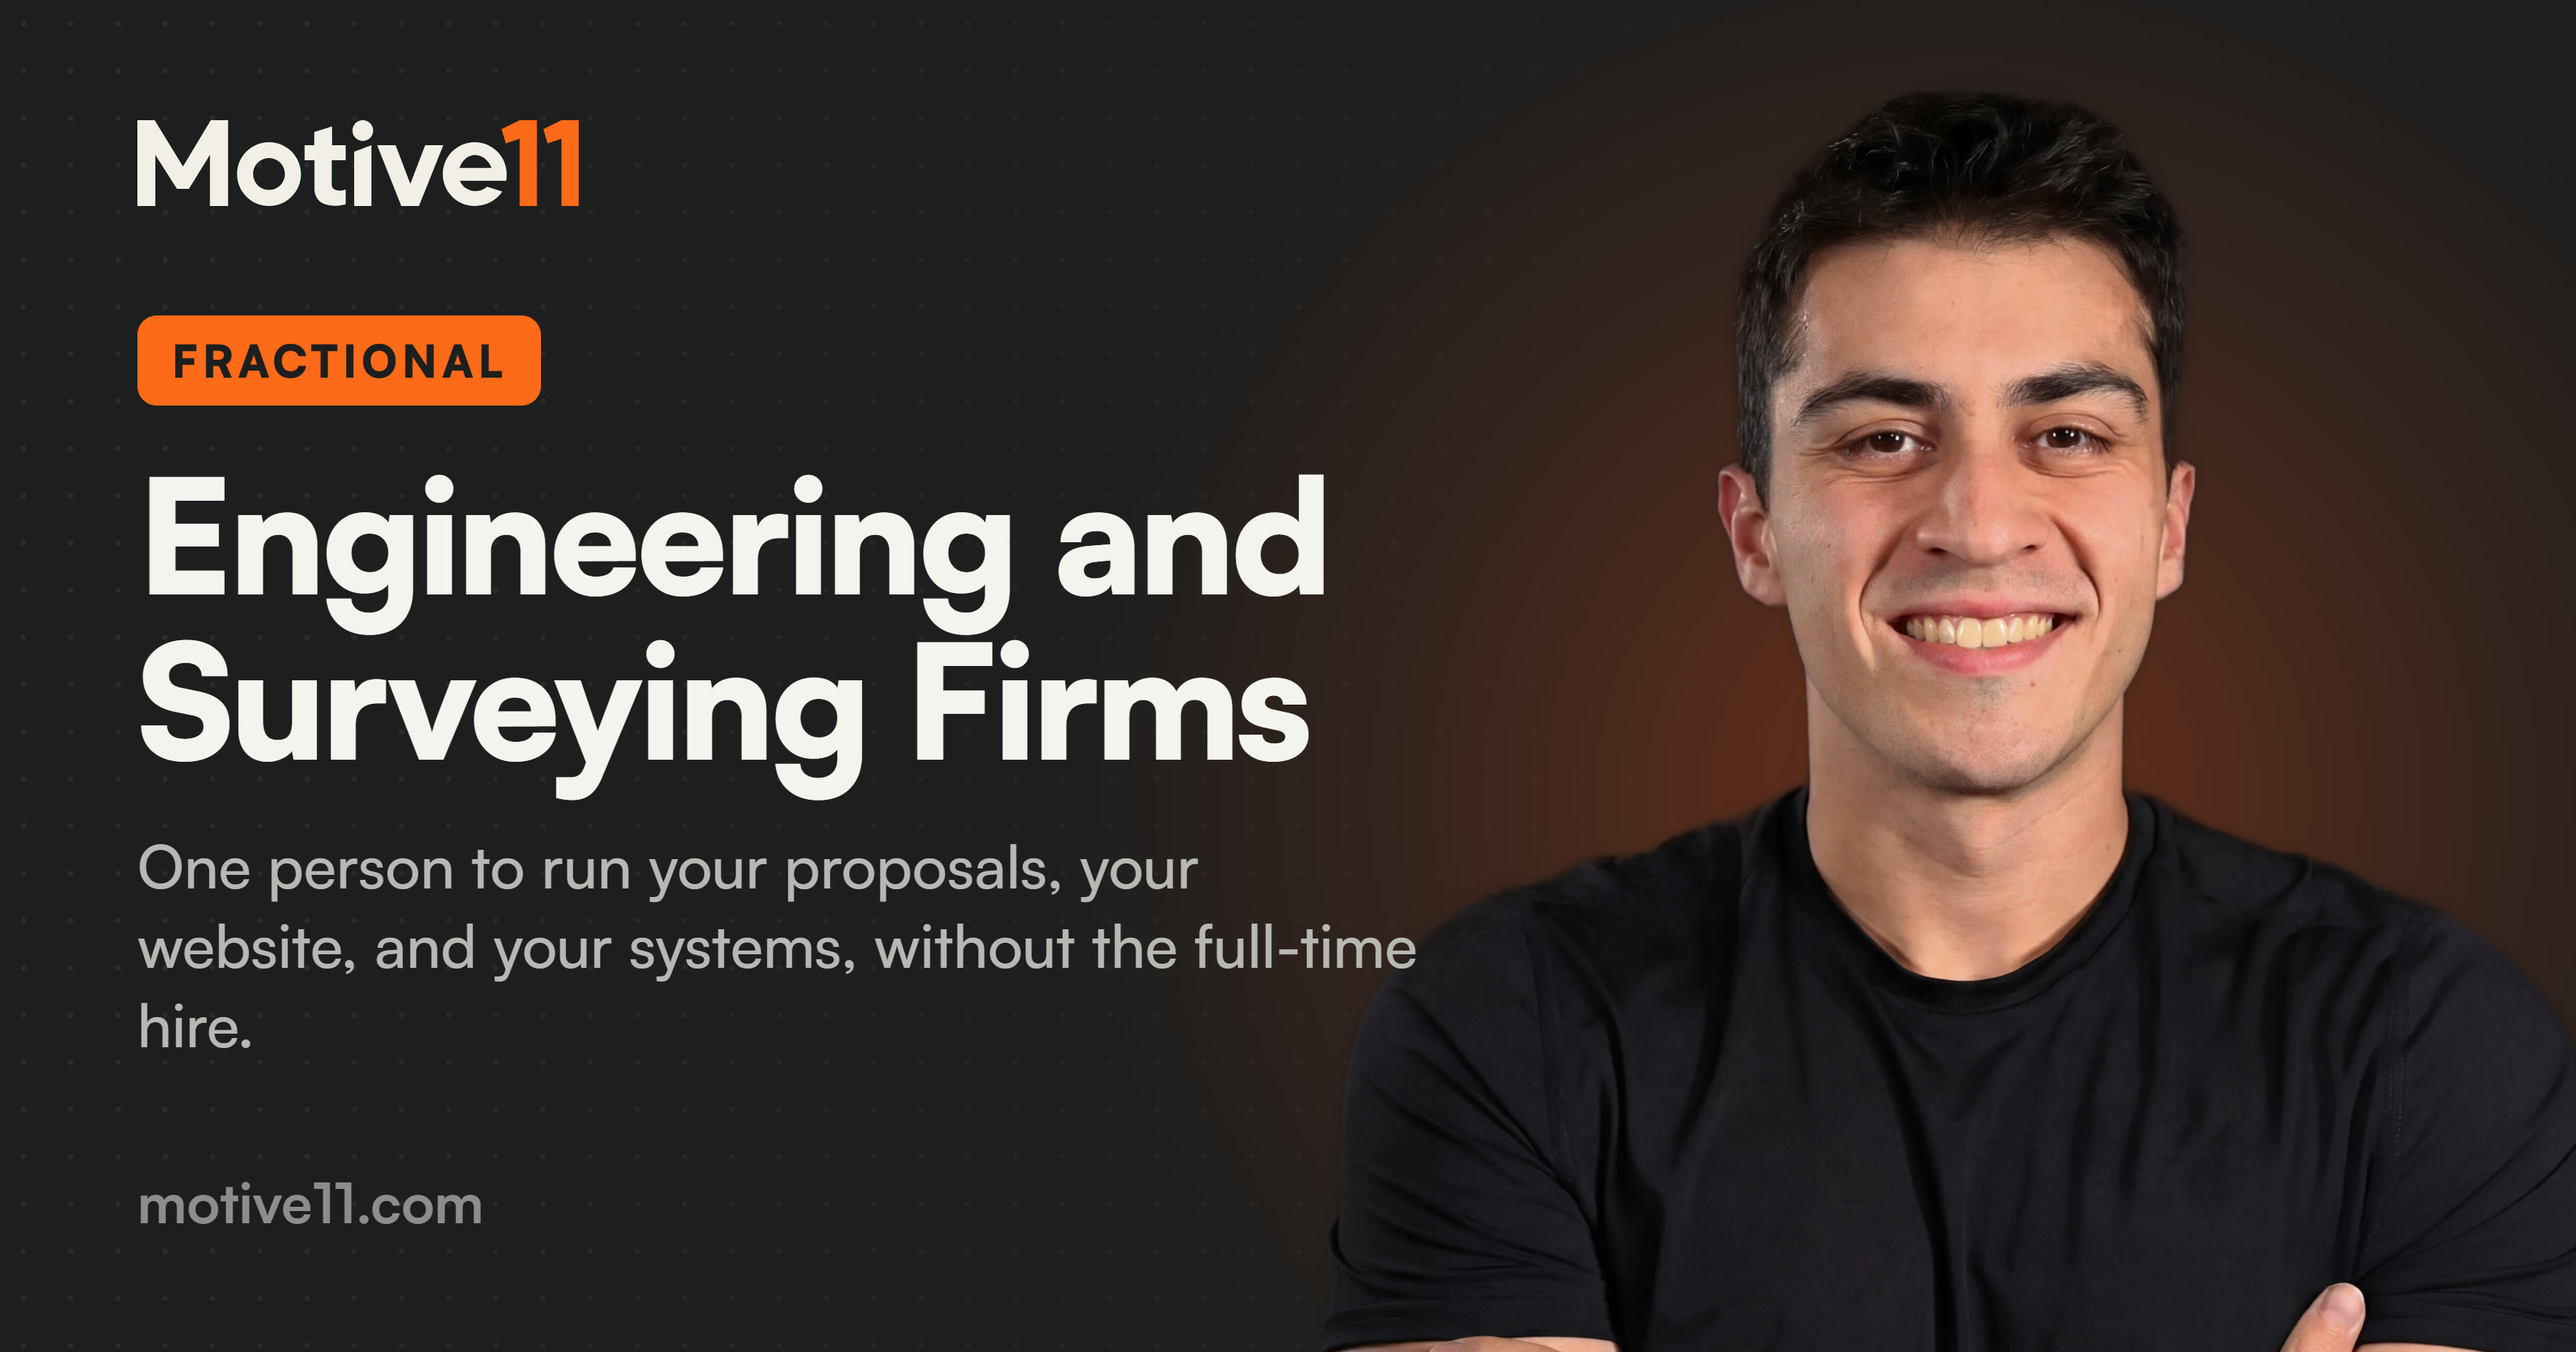
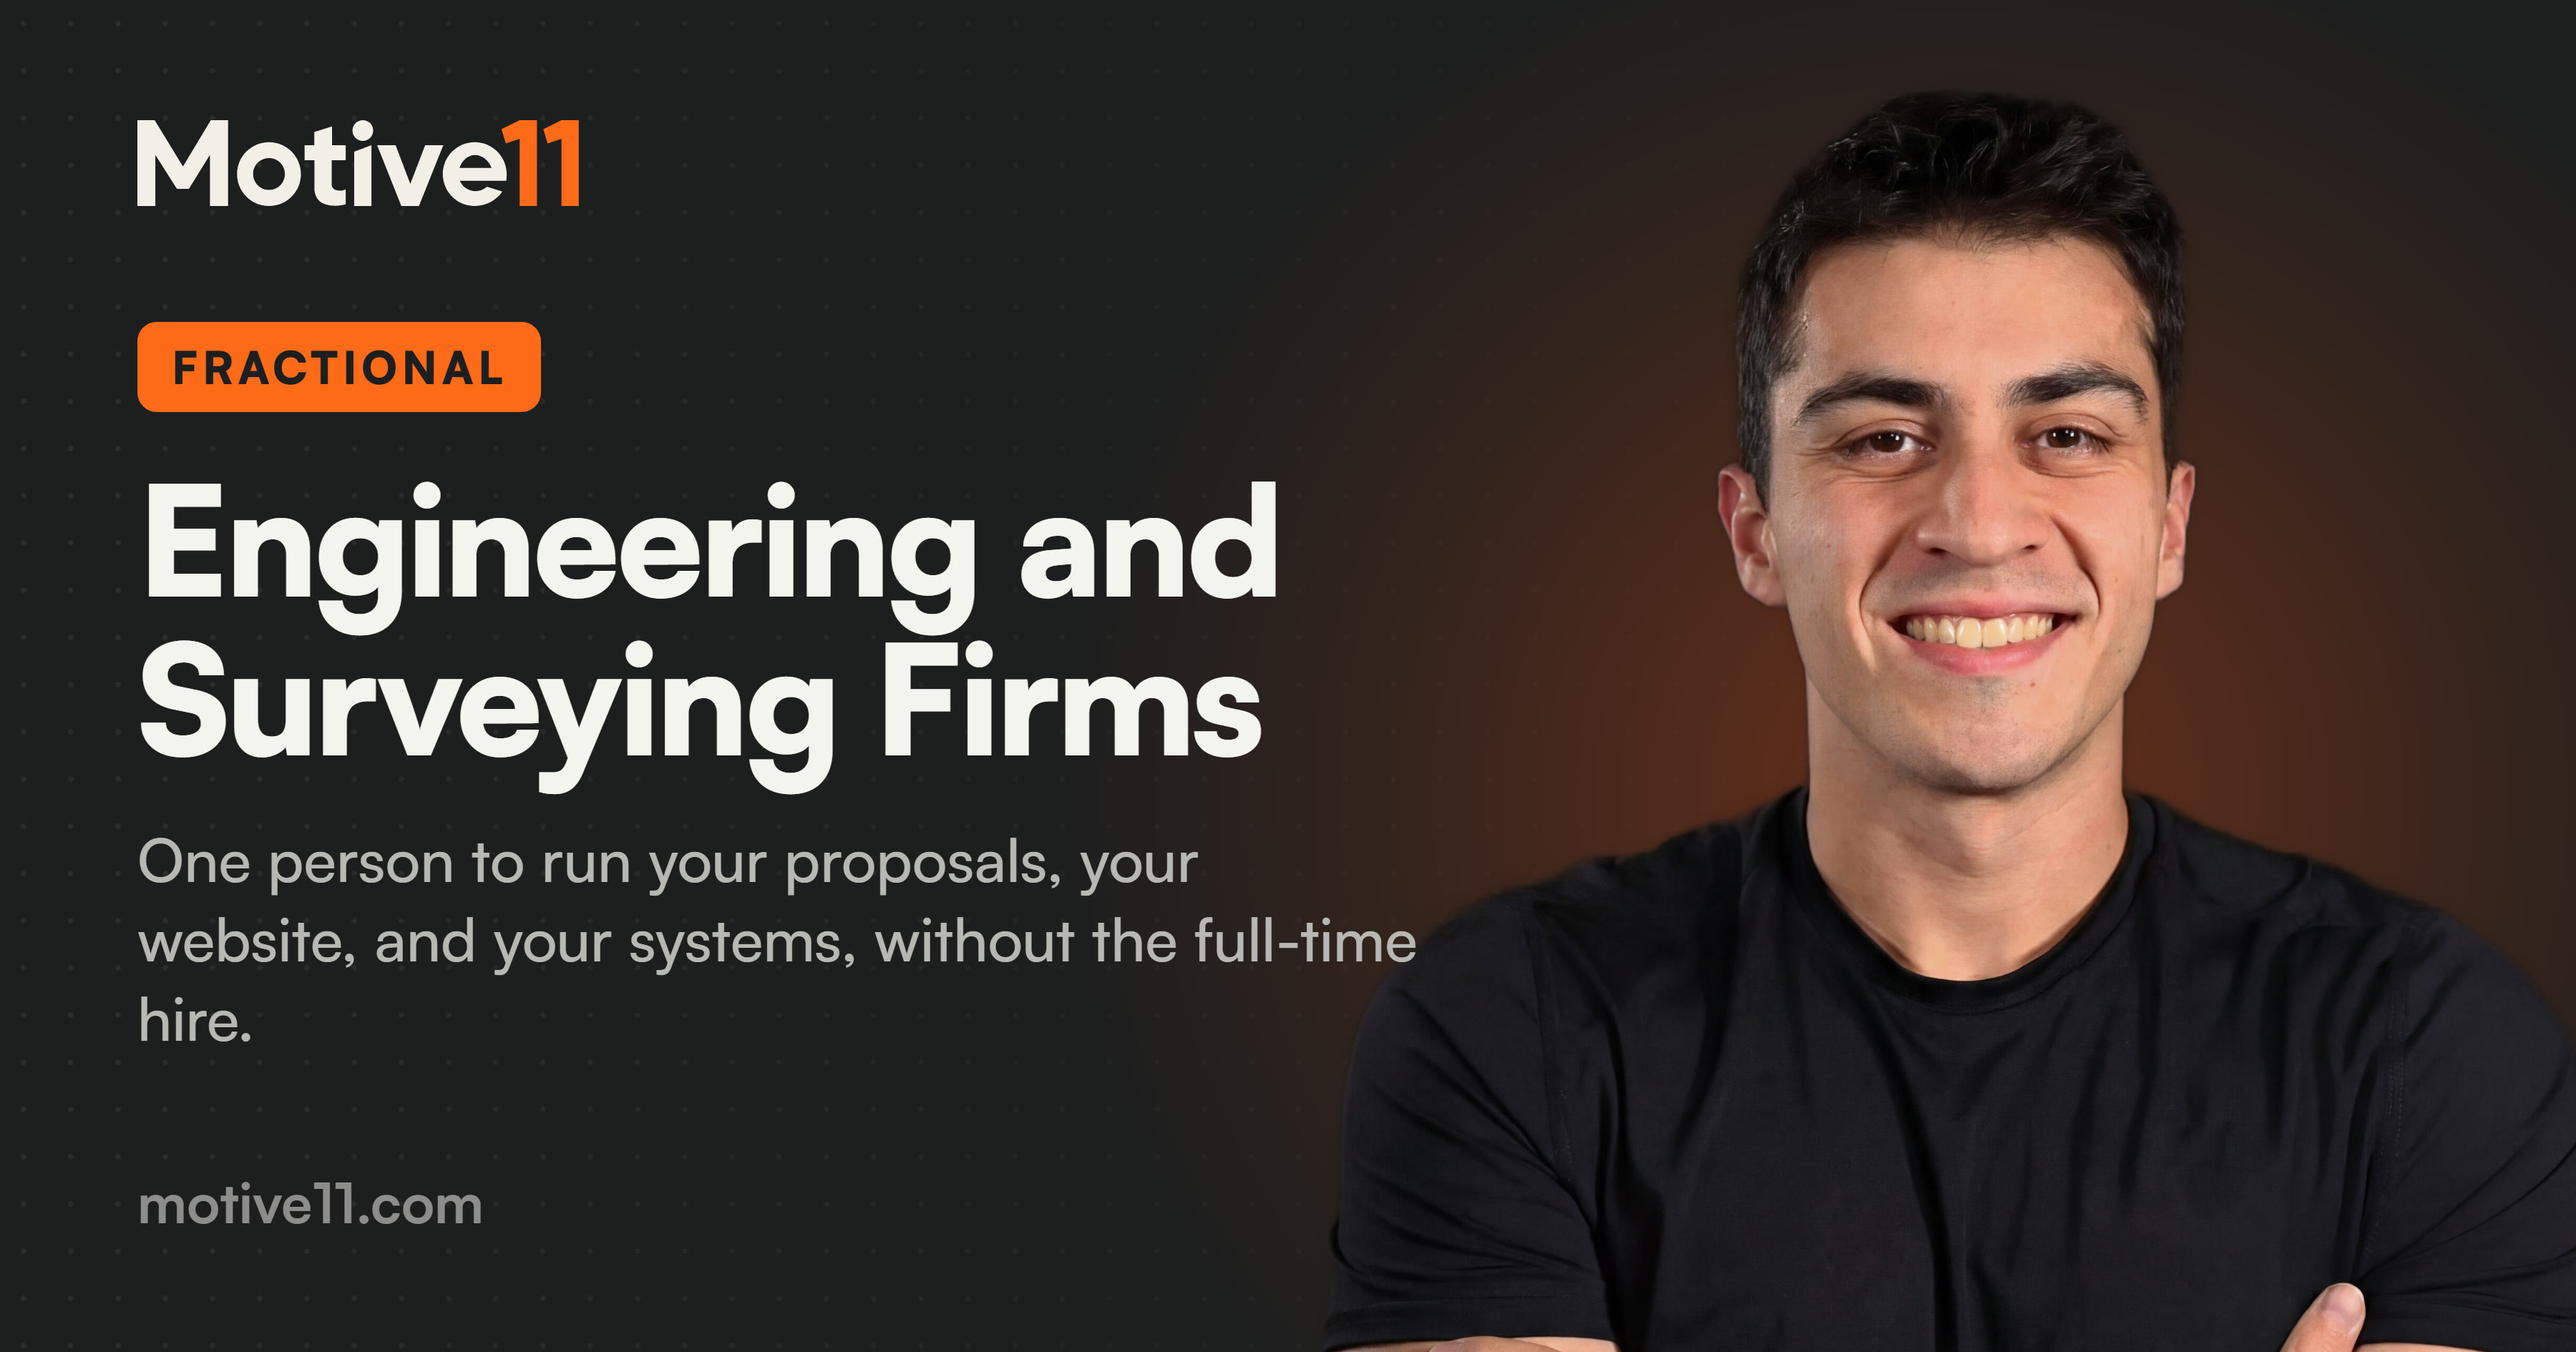
Fractional AI & Systems Lead: ampersand in the offer name everywhere it is a title; share image re-rendered

diff --git a/src/lib/industries.ts b/src/lib/industries.ts
@@ -36,7 +36,7 @@ export type Industry = {
 export const industries: Industry[] = [
   {
     slug: "engineering-firms",
-    metaTitle: "Fractional AI and Systems Lead: Engineering and Surveying Firms - Motive11",
+    metaTitle: "Fractional AI & Systems Lead: Engineering and Surveying Firms - Motive11",
     metaDescription:
       "For engineering and surveying firms: one person to run your proposals, your website, and your systems, without the full-time hire.",
     eyebrow: "For engineering and surveying firms",
@@ -66,7 +66,7 @@ export const industries: Industry[] = [
   },
   {
     slug: "law-firms",
-    metaTitle: "Fractional AI and Systems Lead: Law Firms - Motive11",
+    metaTitle: "Fractional AI & Systems Lead: Law Firms - Motive11",
     metaDescription:
       "For law firms: one person to run your intake, your website, and your systems, without the full-time hire.",
     eyebrow: "For law firms",
@@ -95,7 +95,7 @@ export const industries: Industry[] = [
   },
   {
     slug: "home-services",
-    metaTitle: "Fractional AI and Systems Lead: Contractors and Home Service Companies - Motive11",
+    metaTitle: "Fractional AI & Systems Lead: Contractors and Home Service Companies - Motive11",
     metaDescription:
       "For contractors and home service companies: one person to run your website, your leads, and your office systems, without the full-time hire.",
     eyebrow: "For contractors and home service companies",

diff --git a/src/lib/offers.ts b/src/lib/offers.ts
@@ -18,7 +18,7 @@ export interface Offer {
 export const offers: Offer[] = [
   {
     id: "fractional",
-    name: "Fractional AI and Systems Lead",
+    name: "Fractional AI & Systems Lead",
     short: "I run your website, your systems, and your AI, and every month I work on more revenue or a more organized team.",
     price: `${usd(p.monthly)}/month`,
     priceNote: p.earlySpotsLeft > 0

diff --git a/scripts/og/generate.py b/scripts/og/generate.py
@@ -82,7 +82,7 @@ def card(p: dict) -> dict | None:
     # The tag already says what kind of page it is, so the title keeps only the name.
     title = re.sub(r"\s+Case Study$", "", title)
     if tag == "Fractional":
-        title = re.sub(r"^Fractional AI and Systems Lead:\s*", "", title)
+        title = re.sub(r"^Fractional AI & Systems Lead:\s*", "", title)
     line = first_sentence(re.sub(r"\s*[\u2014\u2013]\s*", ", ", p["desc"]))
     return {"path": path, "tag": o.get("tag", tag), "title": o.get("title", title), "line": o.get("line", line),
             "home": o.get("home", False), "site": o.get("site")}

diff --git a/src/content/case-studies/sheffler-and-company.md b/src/content/case-studies/sheffler-and-company.md
@@ -22,7 +22,7 @@ services:
   - "Custom software"
   - "Site research automation"
   - "Proposal generation"
-  - "Fractional AI and systems lead"
+  - "Fractional AI & systems lead"
 testimonialIds:
   - "a85e6793-5b63-4dc5-99d5-f6c18eadd6d6"
   - "8b67a481-a547-4d8f-a6e1-c4554bb6f0fe"
